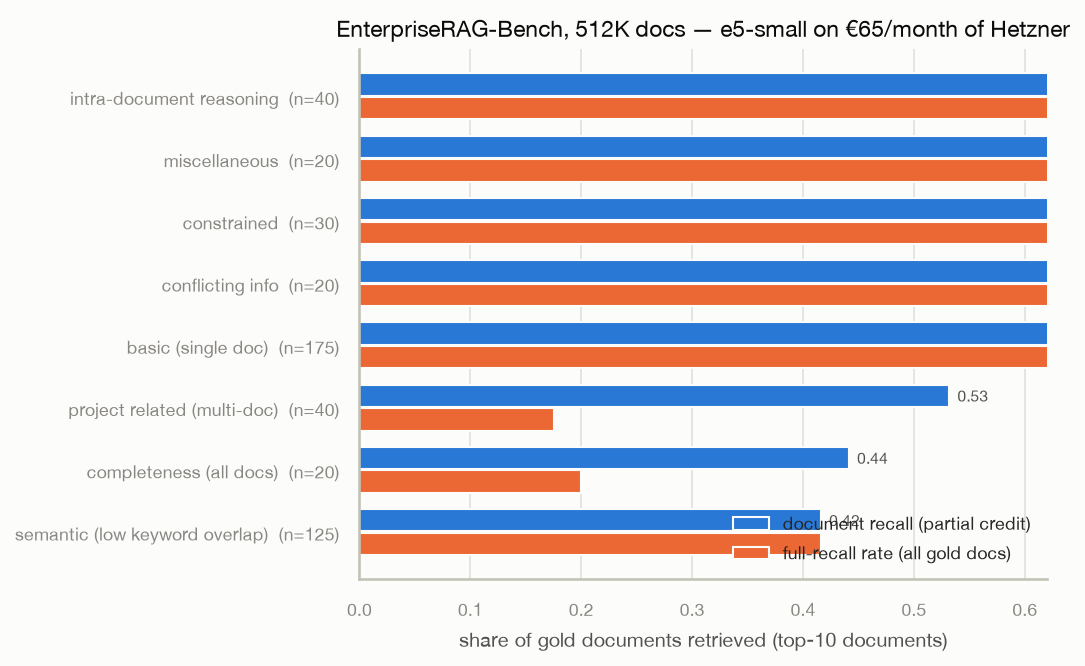
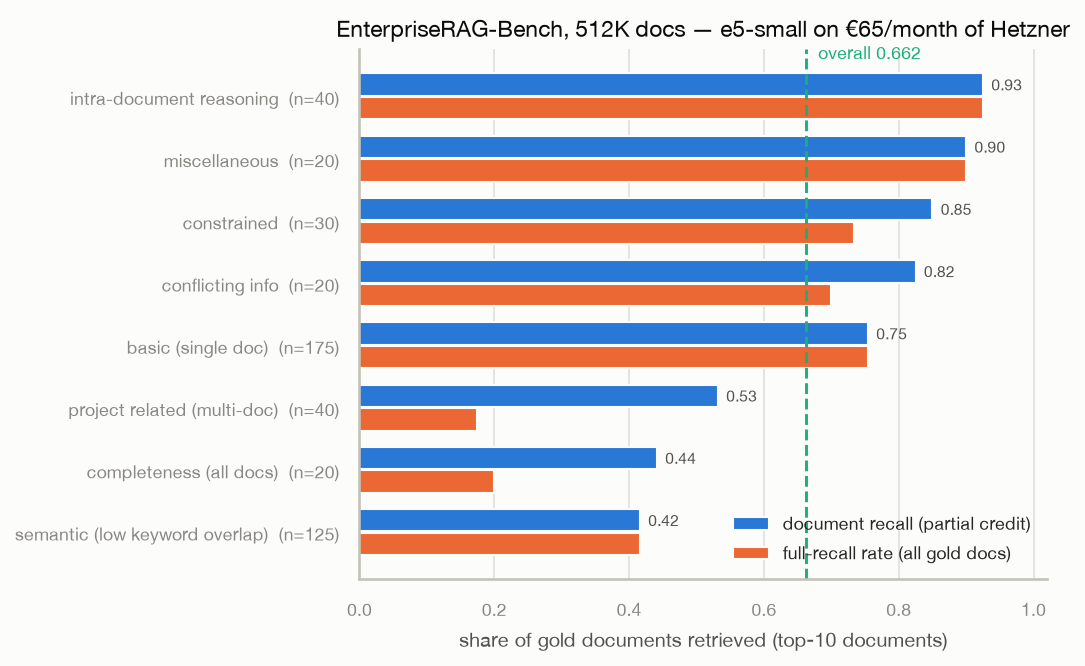
fig: unclip erb_per_type x-axis

diff --git a/bench/plot_bench.py b/bench/plot_bench.py
@@ -71,7 +71,7 @@ def fig_per_type(data, out: Path) -> None:
                 xytext=(6, 0), textcoords="offset points",
                 fontsize=8.5, color=AQUA)
     ax.set_yticks(y, labels)
-    ax.set_xlim(0, 0.62)
+    ax.set_xlim(0, 1.02)
     ax.set_xlabel("share of gold documents retrieved (top-10 documents)")
     ax.set_title("EnterpriseRAG-Bench, 512K docs — e5-small on €65/month of Hetzner")
     ax.legend(loc="lower right")
